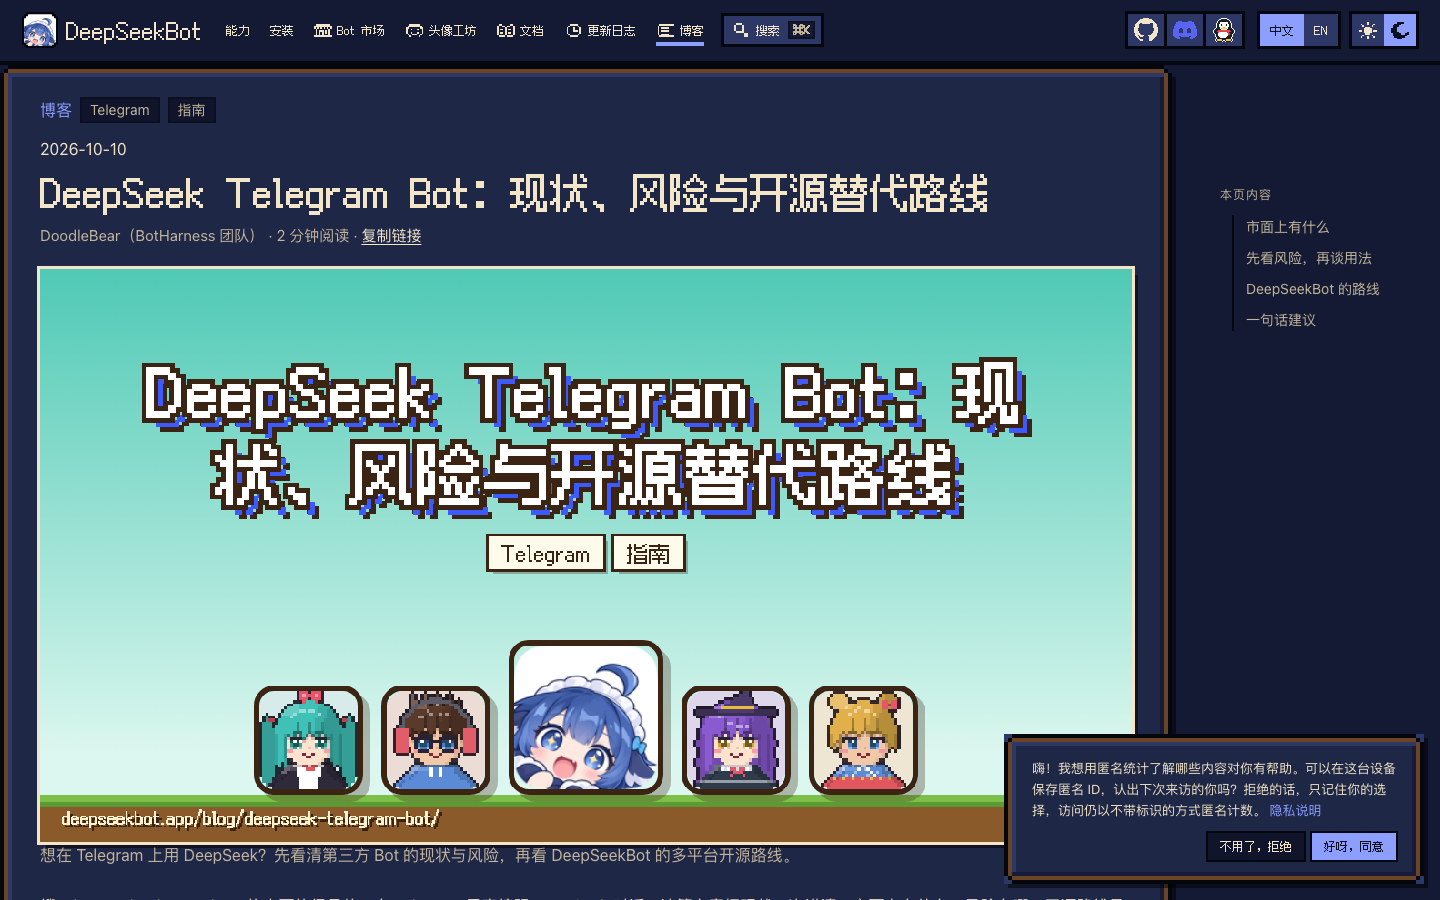
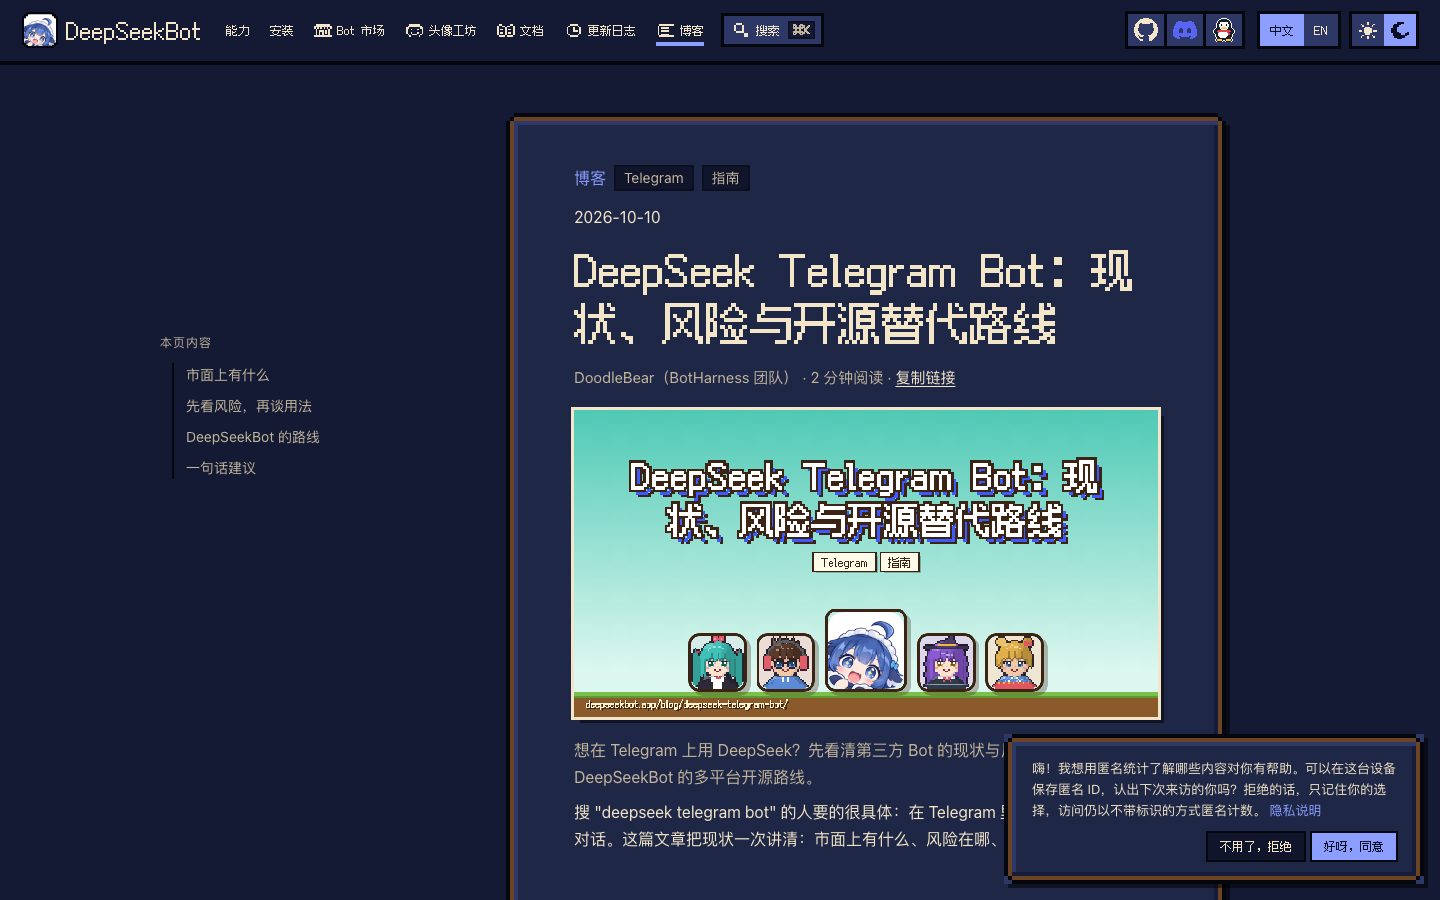
Blog post: left TOC rail, centered reading column, roomier spacing

diff --git a/src/docs.css b/src/docs.css
@@ -925,3 +925,59 @@
 .blog-cards .blog-card a {
   gap: 10px;
 }
+.blog-post-layout {
+  display: grid;
+  grid-template-columns: 220px minmax(0, 1fr);
+  gap: 0 72px;
+  max-width: 1200px;
+  margin: 0 auto;
+  padding: 48px 40px 96px;
+}
+.blog-post-layout .docs-main {
+  grid-column: 2;
+  grid-row: 1;
+  width: 100%;
+  max-width: 720px;
+  margin: 0 auto;
+  min-width: 0;
+}
+.blog-post-layout .docs-article {
+  padding: 40px 56px 56px;
+}
+.blog-post-layout .docs-article h1 {
+  margin: 12px 0 16px;
+  font-size: 44px;
+}
+.blog-post-layout .docs-lead {
+  margin: 20px 0 8px;
+}
+.blog-post-layout .docs-body h2 {
+  margin-top: 56px;
+}
+.blog-post-layout .docs-body p,
+.blog-post-layout .docs-body ul,
+.blog-post-layout .docs-body ol {
+  margin-bottom: 24px;
+}
+.blog-post-layout .blog-rail {
+  grid-column: 1;
+  grid-row: 1;
+  padding-top: 220px;
+}
+@media (max-width: 900px) {
+  .blog-post-layout {
+    grid-template-columns: 1fr;
+    gap: 24px;
+    padding: 24px 16px 64px;
+  }
+  .blog-post-layout .docs-main {
+    grid-column: 1;
+    max-width: none;
+  }
+  .blog-post-layout .docs-article {
+    padding: 20px 20px 28px;
+  }
+  .blog-post-layout .blog-rail {
+    display: none;
+  }
+}
